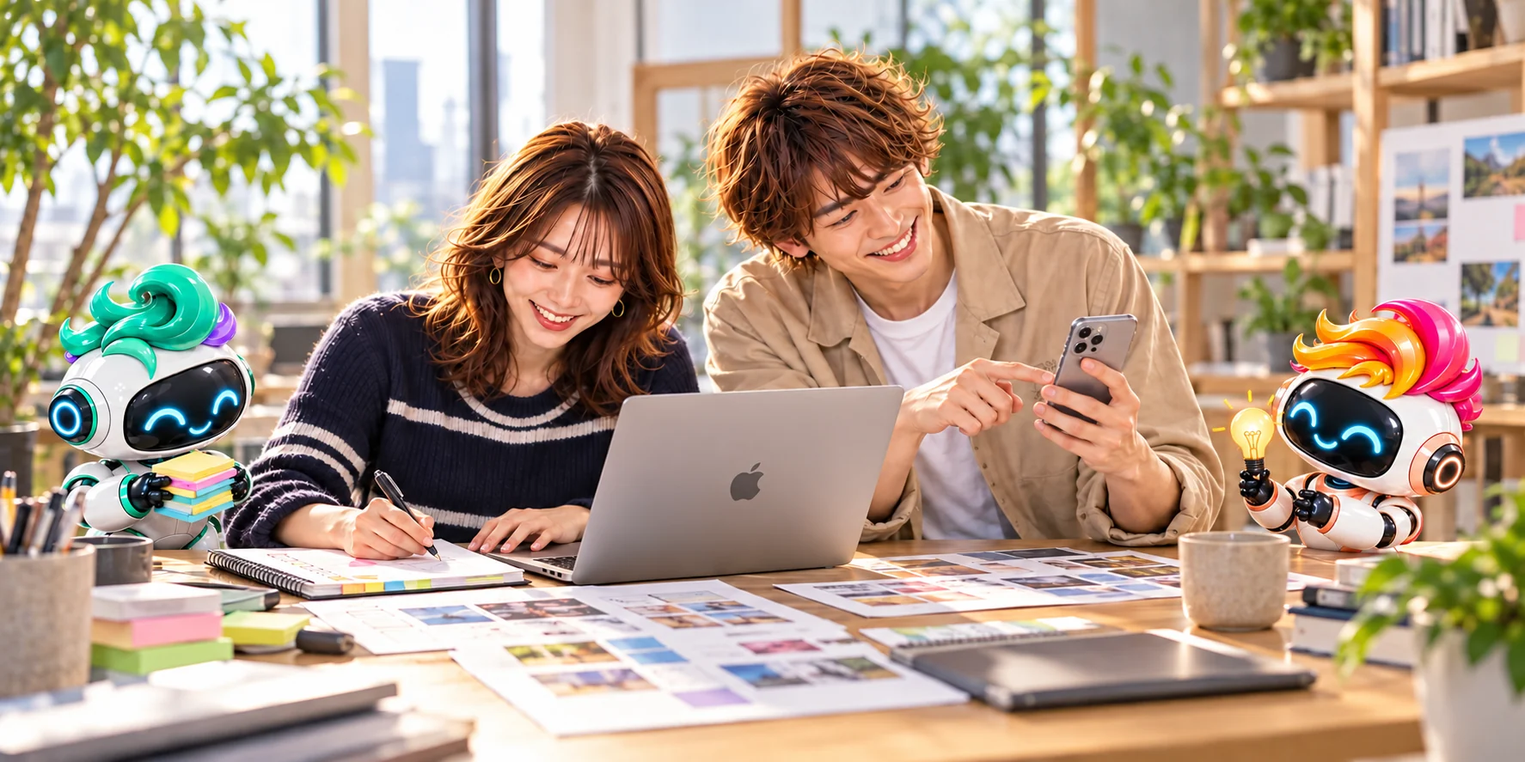
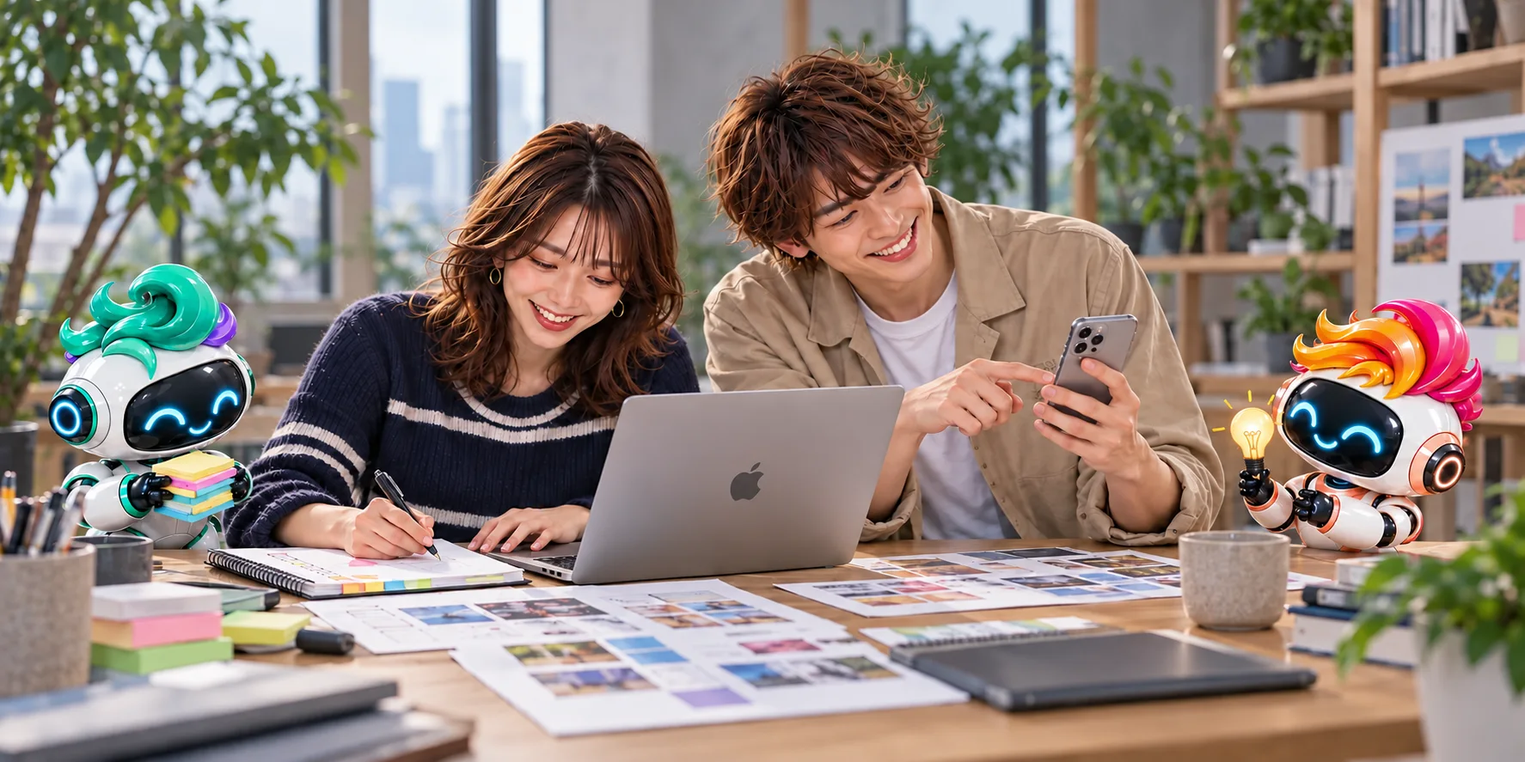
Create a calmer bot-inspired palette and distinct section artwork
Replace bright white surfaces with slate, blue, violet, mint, and peach midtones. Give each section its own subdued background while preserving seven-color hover effects and readable contrast.

Add clock, calendar, and hourglass inquiry artwork with Japanese copy about creating time for the client. Revise the hero and footer men to portray youthful adults aged 25 and 21, preserving human-led collaboration and supporting bots. Store optimized local assets and generation prompts.

Validation: production builds, 48 desktop/mobile regressions, and 6 final hosted checks for unique backgrounds, inquiry messaging, package details, and contrast. Publish the existing public Sites project.

diff --git a/app/site.css b/app/site.css
@@ -987,3 +987,121 @@ button:disabled { box-shadow: inset 0 1px 0 #fff8,0 1px 0 var(--button-edge); tr
   .footer-circle-links,.pattern-copyright,.pattern-sample-note,.footer-bottom-bar { padding-left: 16px; padding-right: 16px; }
   .pattern-sample-note { font-size: 10px; }
 }
+
+/* Bot-inspired twilight palette: comfortable midtones rather than white glare. */
+:root {
+  --paper: #d5dce0; --surface: #e6ebef; --ink: #203542; --muted: #425763;
+  --accent: #4c588d; --cta: #50578e; --line: #b8c5cf; --pale: #d7dfe6;
+  --bot-blue: #394f7a; --bot-violet: #58436e; --bot-mint: #285347; --bot-peach: #734439;
+  --shadow: 0 12px 36px -18px #23374938;
+}
+.site-header { background: #dce3e9f2; border-color: #b7c4ce; }
+.mobile-nav { background: #dce2eb; }
+.site-intro,#introduction .site-intro { background: #cbd5df; color: #304858; }
+#introduction,#selected-work,.introduction-copy,#services,#strengths,#packages,#works,#faq,#contact {
+  --environment-image: url('/images/environments/calm-welcome.webp');
+  --environment-veil: #d0d9dfe8; --muted: #2e4352;
+  background-color: var(--paper);
+  background-image: linear-gradient(180deg,var(--paper) 0%,var(--environment-veil) 12%,var(--environment-veil) 88%,var(--paper) 100%),var(--environment-image);
+  background-size: cover; background-position: center; background-repeat: no-repeat;
+}
+#selected-work { --environment-image: url('/images/environments/calm-selected.webp'); --environment-veil: #d4d5e1e8; }
+.introduction-copy { --environment-image: url('/images/environments/calm-about.webp'); --environment-veil: #d6d3dae8; }
+#services { --environment-image: url('/images/environments/calm-services.webp'); --environment-veil: #cddbd6e8; }
+#strengths { --environment-image: url('/images/environments/calm-process.webp'); --environment-veil: #ded2cce8; }
+#packages { --environment-image: url('/images/environments/calm-packages.webp'); --environment-veil: #cdd5e1e8; }
+#works { --environment-image: url('/images/environments/calm-portfolio.webp'); --environment-veil: #d4d2dfe8; }
+#faq { --environment-image: url('/images/environments/calm-faq.webp'); --environment-veil: #cdd9d3e8; }
+#contact { --environment-image: url('/images/environments/calm-inquiry.webp'); --environment-veil: #cdd7dfe8; }
+:is(.content-heading,.faq-guide-heading) > span,.eyebrow,.dialog-eyebrow { color: #475184; }
+.reference-hero { background: transparent; }
+.hero-brand-scene { background: radial-gradient(ellipse at 25% 20%,#b8ccdd,transparent 65%),linear-gradient(135deg,#d1d7e5,#c1d5d4); }
+.hero-scene-caption,.scene-steps > span,.hero-photo-support,.hero-image-label { background: #dae1e8; border-color: #b9c6d2; }
+.reference-hero-tabs > button { background: #dce2e9; }
+.reference-hero-tabs > button:nth-child(2) { background: #e0dae6; }
+.reference-hero-tabs > button:nth-child(3) { background: #d8e4dd; }
+.reference-hero-tabs > button:nth-child(4) { background: #e7d9d2; }
+.reference-hero-tabs > button[aria-selected="true"] { background: #c6cde2; color: #38467b; }
+.reference-hero-tabs > button:nth-child(2)[aria-selected="true"] { background: #d1c5df; color: #5c4277; }
+.reference-hero-tabs > button:nth-child(3)[aria-selected="true"] { background: #bdd8cc; color: #285c4e; }
+.reference-hero-tabs > button:nth-child(4)[aria-selected="true"] { background: #dfc6bc; color: #78483c; }
+
+.package-card,.portfolio-card,.scope-card,.service-entrance,.working-process > li {
+  --card-accent: var(--bot-blue); --card-surface: #dfe6f0;
+  background: var(--card-surface); border-color: #b5c3d0;
+}
+:is(.package-card,.portfolio-card,.scope-card,.service-entrance,.working-process > li):nth-child(4n+2) { --card-accent: var(--bot-violet); --card-surface: #e3deeb; }
+:is(.package-card,.portfolio-card,.scope-card,.service-entrance,.working-process > li):nth-child(4n+3) { --card-accent: var(--bot-mint); --card-surface: #dce8e1; }
+:is(.package-card,.portfolio-card,.scope-card,.service-entrance,.working-process > li):nth-child(4n+4) { --card-accent: var(--bot-peach); --card-surface: #eadfd8; }
+.catalog-card-meta > span { color: var(--card-accent,var(--bot-blue)); background: #cad6e4; }
+:is(.package-card,.portfolio-card):nth-child(4n+2) .catalog-card-meta > span { background: #d4c9e0; }
+:is(.package-card,.portfolio-card):nth-child(4n+3) .catalog-card-meta > span { background: #c3d9cc; }
+:is(.package-card,.portfolio-card):nth-child(4n+4) .catalog-card-meta > span { background: #dfcbbf; }
+.package-card .catalog-outline-button,.portfolio-detail-link { color: var(--card-accent,var(--bot-blue)); }
+.brother-intro-panel,.intro-engineer { background: #dce5f0; border-color: #aebfd2; }
+.intro-designer { background: #e9dcd4; border-color: #cfb5a7; }
+.bot-speech,.brother-intro-tags > li { background: #e4eaf0; }
+#services .workflow-diagram { background: #cbd9d5; }
+.workflow-card { background: #e1e7e6; border-color: #b3c8c0; }
+.workflow-diagram li { background: #e7ebec; }
+#services .skill-tool-universe { background: linear-gradient(135deg,#d3dce8,#d3e1da); border-color: #b4c6ca; }
+.skill-tool-badge { background: #e0e7ec; border: 1px solid #bccbd4; }
+.evidence-notes,#selected-work .evidence-notes,.collaboration-note { background: #dce2e9; border-color: #bac5d1; }
+.sample-notice,#packages .sample-notice,#works .sample-notice { background: #dce2eb; color: #3e5167; border-color: #b6c5d2; }
+.faq-guide-item,#faq .faq-bot-speech { background: #dee8e2; border-color: #b4c8bc; }
+.faq-guide-toggle { background: #cbdcd1; }
+#contact .contact-overview { background: #d7e3df; border-color: #adc6bc; }
+.contact-brand-scene { background: #ccdcd6; }
+.contact-method { background: #e3e9e8; border-color: #b5c7c6; }
+.contact-platform > :is(a,button) { background: #dce4ef; border-color: #aebed1; color: var(--bot-blue); }
+.contact-platform:nth-child(2) > :is(a,button) { background: #e3dceb; color: var(--bot-violet); }
+.contact-platform:nth-child(3) > :is(a,button) { background: #d9e6dd; color: var(--bot-mint); }
+.contact-platform:nth-child(4) > :is(a,button) { background: #eadbd3; color: var(--bot-peach); }
+.package-plan,.package-entry-details .package-price { background: #dce3ed; border-color: #b4c3d4; }
+.package-entry-details .package-entry-scope { background: #e3dfeb; border-color: #c4b9d0; }
+.package-plan:nth-child(2) { background: #e3ddeb; }
+.package-plan:nth-child(3) { background: #d8e5dd; }
+.catalog-dialog .dialog-notice { background: #d7dfe7; }
+
+.catalog-cta,.header-contact { --button-edge: #343c66; background: linear-gradient(180deg,#626a9e,#4b5488); border-color: #465080; color: #fff; }
+.catalog-cta:hover,.header-contact:hover { background: linear-gradient(180deg,#555e94,#414b7d); }
+.contact-submit { --button-edge: #244d43; background: linear-gradient(180deg,#477b6d,#356556); border-color: #315f52; }
+.contact-submit:hover { background: linear-gradient(180deg,#3d6f61,#2e5b4e); }
+.footer-invitation .catalog-cta { --button-edge: #633e36; background: linear-gradient(180deg,#a06c5e,#875449); border-color: #7d4c43; }
+.catalog-outline-button,.catalog-search,.catalog-filters button,.catalog-pagination button,.hero-motion-toggle,.skill-motion-control,.workflow-all > a {
+  --button-edge: #abb8cb; background: #dce3ef; border-color: #abbcd0; color: #3d4d79;
+}
+.catalog-outline-button:hover { background: #cdd7e8; }
+.catalog-filters button[aria-pressed="true"],.catalog-pagination button[aria-current="page"] { --button-edge: #41365e; background: #655584; border-color: #584773; color: #fff; }
+.catalog-filters button:hover:not([aria-pressed="true"]) { background: #cbd5e8; }
+.category-count { background: #4c5686; border-color: #d5dce0; }
+.catalog-filters button[aria-pressed="true"] .category-count { background: #d9d1e5; color: #49365f; border-color: #655584; }
+.catalog-search input::placeholder { color: #4e6277; }
+
+/* Time for the client: photographic symbols plus readable Japanese copy. */
+.contact-form {
+  background-color: #e0e6ed;
+  background-image: linear-gradient(#dce4edea,#dce4edf5),url('/images/environments/calm-inquiry.webp');
+  background-size: cover; background-position: center; border-color: #abbfd0;
+}
+.contact-time-intro { position: relative; isolation: isolate; overflow: hidden; padding: 26px 22px; margin: 0 0 26px; border-radius: 19px; border: 1px solid #b2c3ce; background: linear-gradient(90deg,#cbd8e8f5 0%,#d3dce8dc 58%,#d8dfe588 100%),url('/images/environments/calm-inquiry.webp') center/cover; }
+.contact-time-intro > span { display: flex; align-items: center; gap: 9px; color: #405580; font-size: 12px; font-weight: 700; }
+.contact-time-intro h3 { margin: 12px 0; font-size: clamp(21px,2.1vw,27px); letter-spacing: -.025em; }
+.contact-time-intro p { position: relative; z-index: 1; font-size: 12px; color: #344c5e; max-width: 90%; }
+.contact-time-shapes { position: absolute; right: 16px; top: 18px; z-index: -1; width: 82px; height: 82px; opacity: .65; }
+.contact-time-shapes > span { position: absolute; width: 62px; height: 62px; border: 10px solid #9687ba; border-radius: 50%; right: 0; }
+.contact-time-shapes > span:nth-child(2) { border-color: #8db6a5; width: 40px; height: 40px; bottom: 0; left: 0; }
+.contact-time-shapes > svg { position: absolute; bottom: 5px; right: 0; color: #a67666; }
+.form-row > input,.form-row > textarea,.form-row > select { background: #e9edf1; border-color: #a9bacb; }
+.form-row > :is(input,textarea)::placeholder { color: #526678; opacity: 1; }
+.contact-privacy > summary { background: #cedbe3; }
+.pattern-footer { background: #ccd5d6; }
+.footer-invitation { background: #dce2e8; border-color: #afbec7; }
+.footer-scene { background: linear-gradient(180deg,#ccd5d6 0%,transparent 18%,transparent 80%,#ccd5d6 100%),url('/images/environments/footer-collaboration.webp') center/cover no-repeat; }
+.pattern-footer :is(.footer-circle-links a,.footer-nav-pill) { background: #dbe2e6; border-color: #afbec7; }
+.pattern-footer .footer-top-pill { background: #695681; }
+@media(max-width:760px) {
+  .contact-time-intro { padding: 23px 17px; }
+  .contact-time-intro h3 { font-size: 23px; }
+  .contact-time-intro p { max-width: 100%; }
+}

diff --git a/tests/environment.spec.ts b/tests/environment.spec.ts
@@ -18,14 +18,35 @@ test("package cards stay concise and preserve the complete pricing and scope in 
   await expect(card.getByRole("button")).toBeFocused();
 });
 
+test("bot-colored badges and primary controls retain readable contrast", async ({ page }) => {
+  await page.goto("/");
+  const ratios = await page.locator("#packages .package-card .catalog-card-meta > span, .hero-primary-actions > .catalog-cta, .contact-submit").evaluateAll(elements => {
+    const luminance = (rgb: number[]) => rgb.map(v => {
+      const c = v / 255;
+      return c <= .04045 ? c / 12.92 : ((c + .055) / 1.055) ** 2.4;
+    }).reduce((sum, value, i) => sum + value * [.2126, .7152, .0722][i], 0);
+    const parse = (color: string) => (color.match(/[\d.]+/g) || []).slice(0, 3).map(Number);
+    return elements.flatMap(el => {
+      const style = getComputedStyle(el), foreground = luminance(parse(style.color));
+      const stops = style.backgroundImage.match(/rgb\([^)]+\)/g) || [style.backgroundColor];
+      return stops.map(color => {
+        const background = luminance(parse(color));
+        return (Math.max(foreground, background) + .05) / (Math.min(foreground, background) + .05);
+      });
+    });
+  });
+  for (const ratio of ratios) expect(ratio).toBeGreaterThanOrEqual(4.5);
+});
+
 test("section images load, surfaces remain opaque, and the footer scene is not cropped", async ({ page }) => {
   await page.goto("/");
   const backgrounds = new Set<string>();
-  for (const selector of ["#selected-work", ".introduction-copy", "#services", "#strengths", "#packages", "#works", "#faq", "#contact", ".footer-scene"]) {
+  for (const selector of ["#introduction", "#selected-work", ".introduction-copy", "#services", "#strengths", "#packages", "#works", "#faq", "#contact", ".footer-scene"]) {
     const style = await page.locator(selector).evaluate(el => getComputedStyle(el).backgroundImage);
     expect(style).toContain("/images/environments/");
     for (const match of style.matchAll(/url\("?([^"\)]+)"?\)/g)) backgrounds.add(match[1]);
   }
+  expect(backgrounds.size).toBe(10);
   for (const url of backgrounds) {
     const response = await page.request.get(url);
     expect(response.ok()).toBe(true);
@@ -46,8 +67,10 @@ test("section images load, surfaces remain opaque, and the footer scene is not c
     });
     expect(contrast).toBeGreaterThanOrEqual(4.5);
   }
-  await expect(page.locator(".package-card").first()).toHaveCSS("background-color", "rgb(255, 255, 255)");
-  await expect(page.locator(".contact-form")).toHaveCSS("background-color", "rgb(255, 255, 255)");
+  await expect(page.locator(".package-card").first()).toHaveCSS("background-color", "rgb(223, 230, 240)");
+  await expect(page.locator(".contact-form")).toHaveCSS("background-color", "rgb(224, 230, 237)");
+  await expect(page.locator(".contact-form")).toHaveCSS("background-image", /calm-inquiry/);
+  await expect(page.locator(".contact-time-intro")).toContainText("本来の仕事に、向き合う時間をつくる。");
   const scene = await page.locator(".footer-scene").boundingBox();
   expect(scene!.width / scene!.height).toBeCloseTo(3, 1);
   expect(await page.evaluate(() => document.documentElement.scrollWidth <= innerWidth)).toBe(true);

diff --git a/components/contact-form.tsx b/components/contact-form.tsx
@@ -1,7 +1,7 @@
 "use client";
 
 import { useEffect, useRef, useState } from "react";
-import { ArrowRight, ArrowUpRight, Copy } from "lucide-react";
+import { ArrowRight, ArrowUpRight, Clock3, Copy, Sparkles } from "lucide-react";
 import { categories, servicePackages } from "@/lib/catalog";
 import { trackInteraction } from "@/lib/interaction-events";
 
@@ -39,6 +39,12 @@ export function ContactForm({ topic, onTopic, directSend }: { topic: string; onT
     <h3>プロジェクトのご相談</h3>
     <p className="form-intro">まずはお困りごとをひとつ。ご予算や時期は、決まっている範囲で大丈夫です。</p>
     <details className="contact-privacy"><summary>お問い合わせ情報の取り扱い</summary><p>窓口は大穂兄弟です。お名前・連絡先・ご相談内容は、ご相談への対応と連絡のために利用します。</p><p>{directSend ? "フォームはメール送信サービスを経由して窓口へ送ります。サイト独自のデータベースには入力内容を保存しません。" : "現在はメールで受け付けています。メールアプリで送信するまで、入力内容は窓口へ送られません。サイトには保存されません。"}</p><p>送信後の内容確認や訂正については、同じ窓口へご連絡ください。</p></details>
+    <div className="contact-time-intro">
+      <span><Clock3 size={18} aria-hidden="true" />あなたの時間を、大切に。</span>
+      <h3>本来の仕事に、<br />向き合う時間をつくる。</h3>
+      <p>整理・設計・制作をひとつのチームで。<br />手間を減らし、次の一歩を考える余白をご一緒に。</p>
+      <div className="contact-time-shapes" aria-hidden="true"><span /><span /><Sparkles size={23} /></div>
+    </div>
     <fieldset disabled={sending || sent}>
       <div className="form-row"><label htmlFor="contact-name">お名前 <span>必須</span></label><input id="contact-name" autoComplete="name" required maxLength={100} placeholder="山田 太郎" value={name} onChange={event => setName(event.target.value)} /></div>
       <div className="form-row"><label htmlFor="contact-email">メールアドレス <span>必須</span></label><input id="contact-email" type="email" autoComplete="email" required maxLength={200} placeholder="ご連絡用のメールアドレス" value={email} onChange={event => setEmail(event.target.value)} /></div>

diff --git a/docs/calm-brand-artwork.md b/docs/calm-brand-artwork.md
@@ -1,0 +1,88 @@
+# 落ち着いた配色と個別の背景画像
+
+組み込みの画像生成ツールを使用（2026年10月29日）。全セクションを異なる背景に更新し、白のまぶしさを抑えたスレートの基調に、ボットの髪に由来する青・紫・ミント・ピーチを合わせています。七色のホバー効果は維持しています。
+
+お問い合わせには時計・カレンダー・砂時計を描いた専用画像と、読める日本語の見出し「本来の仕事に、向き合う時間をつくる。」を組み合わせました。本文の領域には画像の上から不透明度の高い色を重ねています。画像に文字を焼き込まず、検索・読み上げ・拡大に対応します。
+
+男性の生成イメージは、兄を25歳、弟を21歳に見える若い成人として指定。人物の実年齢やプロフィールの経験年数を変更するものではありません。既存画像の構図、女性、ボットの支援する役割を維持しています。
+
+## 保存先と最終プロンプト
+
+### footer
+
+保存先：`public/images/environments/footer-collaboration.webp`
+
+In this existing footer photograph, keep the same FOUR Japanese adults, same three glossy friendly bots with colorful hair, same bench and street shelter composition, 3:1 ultra-wide. Make the seated dark-haired man convincingly 25 years old, and the standing man on the right convincingly 21 years old. Both adult men should have fresh youthful faces, no wrinkles, no facial hair, natural youthful haircuts, relaxed contemporary casual clothes. Keep both women unchanged. Preserve humans leading collaboration and different bot poses. Change the overall lighting and environment to restful soft OVERCAST daylight, no direct sun, no blown white highlights or golden glare. Use restrained slate blue, sage, mauve and warm gray architectural tones. Real editorial photography, natural skin texture, not plastic smooth or childlike. Keep the whole group visible, do not add text.
+
+### consulting
+
+保存先：`public/images/heroes/consulting-human-led.webp`
+
+Edit this existing wide photograph preserving the two Japanese adult men and two small colorful-haired white helper bots, board, laptop, iPhone and collaborating poses. The standing dark-haired older brother must visibly look 25 years old; the seated brown-haired younger brother must visibly look 21 years old. Both fresh youthful adult faces, no facial hair, no wrinkles, modern natural haircuts, believable skin. Keep people leading and bots supporting, distinct poses. Replace bright sunlight with calm diffused overcast studio light, muted slate-blue and sage environment, warm gray clothes, no white glare, no yellow sunlight. Keep widescreen 2:1 composition, realistic high-end editorial photograph, no text or logos added.
+
+### design
+
+保存先：`public/images/heroes/design-human-led.webp`
+
+Edit this existing wide photograph. Keep the same Japanese woman explaining her paper design and the man using the laptop, with two small supporting colorful-haired bots in distinct poses. Make the dark-haired man convincingly a youthful 25-year-old adult, with smooth natural skin, no wrinkles or facial hair, fresh contemporary hair. Keep the woman unchanged and people leading the work. Calm soft overcast studio light rather than bright sun, restful muted slate-blue, dusty mauve and sage tones, reduce glare and overly bright white surfaces. Preserve silver laptop, phone, design drawings and composition. Natural photographic realism, 2:1 wide, no text added.
+
+### improvement
+
+保存先：`public/images/heroes/improvement-human-led.webp`
+
+Edit this existing wide photograph. Preserve the same Japanese woman taking notes and brown-haired man working with iPhone and silver Mac laptop, plus the two distinct small helper bots. Make the man clearly look like a youthful 21-year-old ADULT, fresh face, no facial hair, no wrinkles, natural fashionable haircut, believable anatomy, not a child. Keep the woman unchanged, people leading, bots providing materials and ideas. Calm diffused overcast studio lighting, muted slate blue, warm gray, peach and sage palette, reduce bright white glare and remove harsh golden sunlight. Realistic editorial lifestyle photo, same 2:1 composition, no new text.
+
+### welcome
+
+保存先：`public/images/environments/calm-welcome.webp`
+
+Photographic decorative background for a calm premium Japanese web studio. Landscape 16:9. Soft low-key OVERCAST daylight, muted medium slate-gray, dusty blue, sage and mauve, comfortable midtone exposure, no bright white surfaces, no glare, no direct sunshine or neon. No people, no robots, no letters or logos. Real tactile materials, generous quiet middle for readable website text, detail toward edges. A welcoming contemporary studio vestibule with a smoked-glass doorway, muted blue plaster, small olive branch and soft indirect lamp, grounded understated Japanese editorial architecture.
+
+### selected
+
+保存先：`public/images/environments/calm-selected.webp`
+
+Photographic decorative background for a calm premium Japanese web studio. Landscape 16:9. Soft low-key OVERCAST daylight, muted medium slate-gray, dusty blue, sage and mauve, comfortable midtone exposure, no bright white surfaces, no glare, no direct sunshine or neon. No people, no robots, no letters or logos. Real tactile materials, generous quiet middle for readable website text, detail toward edges. A slate-blue worktable with three understated paper prototypes, rounded frosted acrylic blocks and a fabric-bound notebook at the far corners; calm editorial product composition, no interfaces or readable writing.
+
+### about
+
+保存先：`public/images/environments/calm-about.webp`
+
+Photographic decorative background for a calm premium Japanese web studio. Landscape 16:9. Soft low-key OVERCAST daylight, muted medium slate-gray, dusty blue, sage and mauve, comfortable midtone exposure, no bright white surfaces, no glare, no direct sunshine or neon. No people, no robots, no letters or logos. Real tactile materials, generous quiet middle for readable website text, detail toward edges. A quiet Japanese creative studio lounge with two comfortable charcoal fabric chairs, walnut shelf, dusky mauve plaster and a small plant. Subtle sense of partnership, not a boardroom.
+
+### inquiry
+
+保存先：`public/images/environments/calm-inquiry.webp`
+
+Photographic decorative background for a calm premium Japanese web studio. Landscape 16:9. Soft low-key OVERCAST daylight, muted medium slate-gray, dusty blue, sage and mauve, comfortable midtone exposure, no bright white surfaces, no glare, no direct sunshine or neon. No people, no robots, no letters or logos. Real tactile materials, generous quiet middle for readable website text, detail toward edges. A still-life expressing MAKING TIME FOR THE CLIENT: a beautiful minimal circular clock with no numerals, open weekly calendar with blank blocks, curved hourglass silhouette in frosted glass, gently interlocking rounded shapes and an open notebook, all placed at outer edges on a muted blue-gray desk. Soft mint and dusty violet accents. Center remains calm and spacious for Japanese HTML copy. Time feels freed for thoughtful creative work, not rushed. Do NOT generate text; Japanese text will be set clearly in the website.
+
+### services
+
+保存先：`public/images/environments/calm-services.webp`
+
+Photographic decorative background for a calm premium Japanese web studio. Landscape 16:9. Soft low-key OVERCAST daylight, muted medium slate-gray, dusty blue, sage and mauve, comfortable midtone exposure, no bright white surfaces, no glare, no direct sunshine or neon. No people, no robots, no letters or logos. Real tactile materials, generous quiet middle for readable website text, detail toward edges. A sculptural arrangement of interlocking frosted mint-glass arcs and dusty violet ceramic pieces, suggesting tools fitting together, on charcoal-green mineral plaster; restrained precision, empty center.
+
+### process
+
+保存先：`public/images/environments/calm-process.webp`
+
+Photographic decorative background for a calm premium Japanese web studio. Landscape 16:9. Soft low-key OVERCAST daylight, muted medium slate-gray, dusty blue, sage and mauve, comfortable midtone exposure, no bright white surfaces, no glare, no direct sunshine or neon. No people, no robots, no letters or logos. Real tactile materials, generous quiet middle for readable website text, detail toward edges. A sequence of four shallow charcoal stone steps with a thin warm indirect light tracing a gentle path, quiet Japanese courtyard, subtle peach-gray plaster, suggesting an unhurried clear progression.
+
+### packages
+
+保存先：`public/images/environments/calm-packages.webp`
+
+Photographic decorative background for a calm premium Japanese web studio. Landscape 16:9. Soft low-key OVERCAST daylight, muted medium slate-gray, dusty blue, sage and mauve, comfortable midtone exposure, no bright white surfaces, no glare, no direct sunshine or neon. No people, no robots, no letters or logos. Real tactile materials, generous quiet middle for readable website text, detail toward edges. An editorial still life of carefully wrapped slate-blue and dusty peach paper folders, three neat rectangular linen boxes, subtle rounded corners and quiet shadows, suggesting thoughtfully scoped service packages, no labels.
+
+### portfolio
+
+保存先：`public/images/environments/calm-portfolio.webp`
+
+Photographic decorative background for a calm premium Japanese web studio. Landscape 16:9. Soft low-key OVERCAST daylight, muted medium slate-gray, dusty blue, sage and mauve, comfortable midtone exposure, no bright white surfaces, no glare, no direct sunshine or neon. No people, no robots, no letters or logos. Real tactile materials, generous quiet middle for readable website text, detail toward edges. A refined empty gallery wall of blue-gray plaster with two slim dark frames and one sculptural curved display plinth at the edges, low-key soft lighting, understated creative work presentation, no artwork text.
+
+### faq
+
+保存先：`public/images/environments/calm-faq.webp`
+
+Photographic decorative background for a calm premium Japanese web studio. Landscape 16:9. Soft low-key OVERCAST daylight, muted medium slate-gray, dusty blue, sage and mauve, comfortable midtone exposure, no bright white surfaces, no glare, no direct sunshine or neon. No people, no robots, no letters or logos. Real tactile materials, generous quiet middle for readable website text, detail toward edges. Quiet sage-gray Japanese reading nook, gently curving walnut bookshelf, a closed muted-violet book and a soft fabric chair at outer edges, reassuring restful atmosphere, no readable writing.
+

diff --git a/docs/brand-guide.md b/docs/brand-guide.md
@@ -10,13 +10,13 @@
 
 ## 表記・声・見た目
 
-セクションの背景は、導入のアイスブルー、制作デモのラベンダー、兄弟紹介の青みグレー、サービスのセージ、進め方の淡い砂色、パッケージのペールブルー、制作コンセプトのローズ、質問のミント、問い合わせの青灰色で変化をつけます。各背景の上下は共通の紙色へ戻し、境界が強い帯にならないようにします。カードは白を保ち、文字と操作の色は既存の濃色を維持します。
+白のまぶしさを抑えたスレートの基調に、ボットの髪に由来する青・紫・ミント・ピーチを合わせます。カードにも薄い色を使い、濃い本文色と操作色で読みやすさを保ちます。セクションごとに異なる、直射日光や強い白を避けた画像を使い、画像の上に色のベールを重ねます。背景の上下は共通の基調色につなぎます。画像と最終プロンプトは `docs/calm-brand-artwork.md` を参照してください。
 
 制作イメージは、ラベンダーとアプリコット、ミントとイエロー、コーラルとライラックなどを組み合わせた小さな画面模型で表現します。サービスの三つの入口は紫・緑・珊瑚色、制作の四段階は紫・青緑・琥珀色・ローズで区別します。色のほかに見出し・番号・アイコンを必ず併記し、本文と操作ボタンは濃色で読みやすさを保ちます。既存の七色ホバーは維持します。
 
 - 公開画面では「大穂兄弟」と日本語の説明を使います。旧英語表記は内部の資料に限り、見出し・項目・本文に英字ラベルを追加しません。個人名・読み仮名は確認前に推測しません。
 - 具体的な課題と進め方を、短く平易に説明します。成果保証・架空の顧客・未測定の改善率は掲載しません。
-- 白い面、墨に近い文字、青・藍色、濃紺が基本色。既存の鮮やかな7色ホバーはブランドの操作表現として維持します。押せる操作には小さな段差と押し込みを付けます。
+- 青灰色の面、濃い文字、髪色に由来する青・紫・ミント・ピーチが基本色。既存の鮮やかな7色ホバーはブランドの操作表現として維持します。押せる操作には小さな段差と押し込みを付けます。
 - ボットは案内役。人物本人の代わりの肖像、スタッフ数の証拠、実在顧客として扱いません。
 - ヒーローの１枚目は既存のキャラクター図解を保ち、２〜４枚目は人が判断と作業を主導する制作イメージです。ボットは材料・発想を補助します。
 - 連絡先は日本語名を添えたプラットフォームのアイコンで表示し、メールアドレスや識別子を画面には並べません。技術の回転リングも文字の略号ではなくマークを使います。

diff --git a/README.md b/README.md
@@ -36,7 +36,7 @@ npm.cmd run start -- --port 3001
 8. 連絡先とフォーム。PCは横並び、760px以下は縦並び。
 9. ページの白から淡い青灰色へなじむフッター。縦書きの屋号、用途がわかるリンク、ページ先頭への操作。
 
-色・文字・余白・カード・ボタンは **`app/site.css` の1か所**で管理します。建築・紙とガラス・庭の光を使った画像背景に白いベールを重ね、白いカードと濃い本文色で読みやすさを保っています。フッターは4人とボットが協働する街角の情景です。画像の保存先と生成プロンプトは `docs/environment-artwork.md` に記録しています。ホバーは赤・橙・黄・緑・青・藍・紫の7色グローを維持。`--paper`、`--surface`、`--ink`、`--muted`、`--accent`、`--cta` が配色の共通トークンです。Noto Sans JPとDM Sansはローカル配信です。
+色・文字・余白・カード・ボタンは **`app/site.css` の1か所**で管理します。まぶしい白を抑えたスレートを基調に、ボットの髪の青・紫・ミント・ピーチをカードとボタンへ展開。各セクションには異なる落ち着いた画像を使い、色のベールと濃い本文で読みやすさを保ちます。お問い合わせは時計・カレンダーと日本語の「時間をつくる」メッセージを組み合わせています。男性の制作イメージは25歳と21歳に見える若い成人に更新。画像の保存先と最終プロンプトは `docs/calm-brand-artwork.md` に記録しています。既存の7色グローを維持。`--paper`、`--surface`、`--ink`、`--muted`、`--accent`、`--cta` と四つの `--bot-*` が配色の共通トークンです。Noto Sans JPとDM Sansはローカル配信です。
 
 パッケージ・制作例・サービス・ワークフローの7色グローは、ホバーとキーボードフォーカスで鮮やかに発光します。タッチ端末でホバーが残る影響を抑え、reduced-motionでは回転・光・切り替えアニメーションを止めます。ヒーローとスキルリングは画面外で停止します。
 
